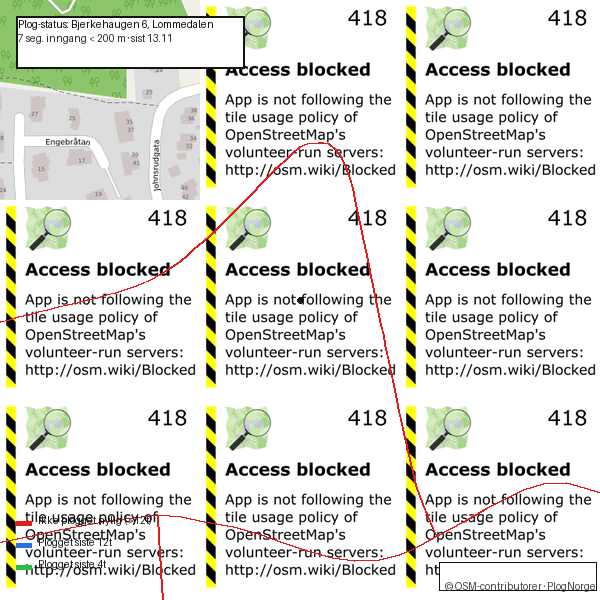
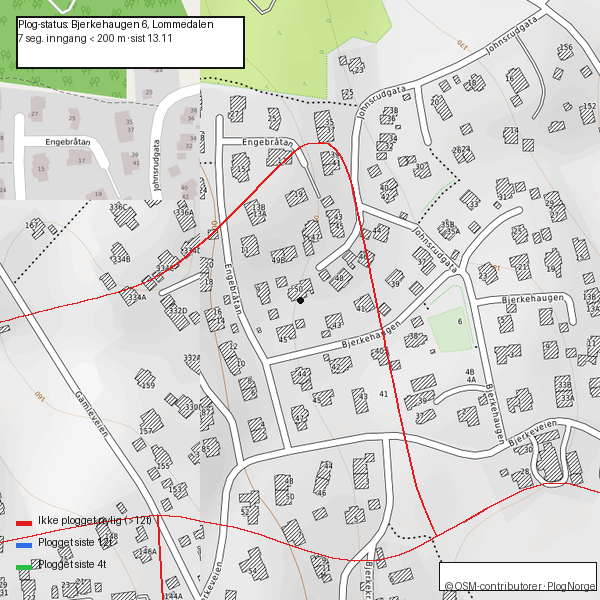
Use OpenTopoMap as reliable tile source

diff --git a/render_map.py b/render_map.py
@@ -84,9 +84,11 @@ def fetch_base_map():
     """Download OSM-compatible tiles (try osm.fr mirror first for reliability)."""
     # Bjerkehaugen 6 (59.9636663, 10.4678833) at z17
     x_t, y_t = 69347, 38089
+    # Try multiple sources in order: OSM-FR is most permissive, then others
     sources=[
-        f"https://a.tile.openstreetmap.fr/osmfr/{ZOOM}",  # FR mirror
-        f"https://tile.openstreetmap.org/{ZOOM}",          # main
+        f"https://a.tile.openstreetmap.fr/osmfr/{ZOOM}",   # French mirror (most reliable)
+        f"https://tile.opentopomap.org/{ZOOM}",             # OpenTopoMap fallback
+        f"https://tile.openstreetmap.de/{ZOOM}",            # German mirror fallback
     ]
     tiles=[]
     for src_url in sources:
